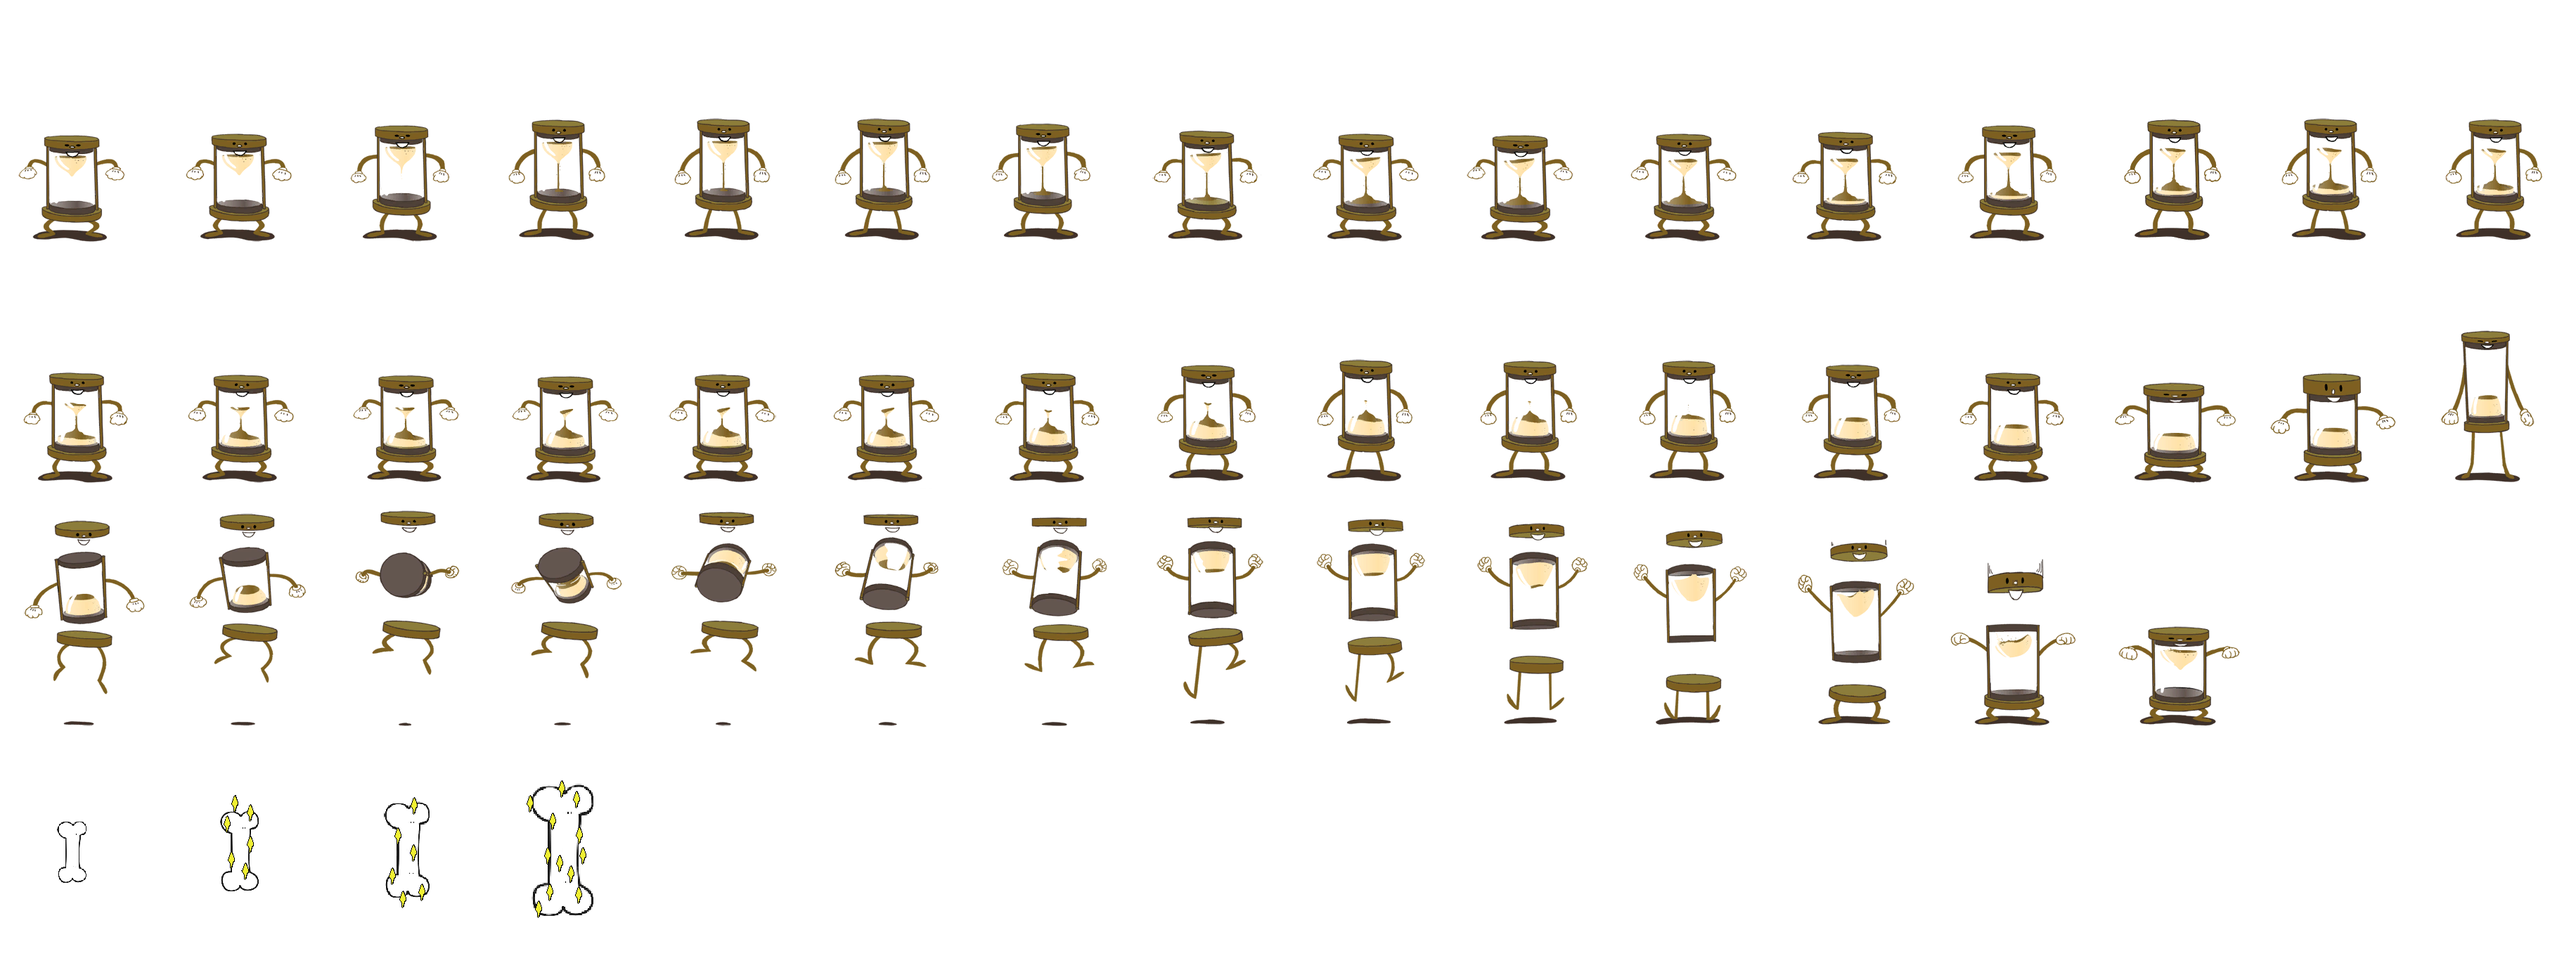
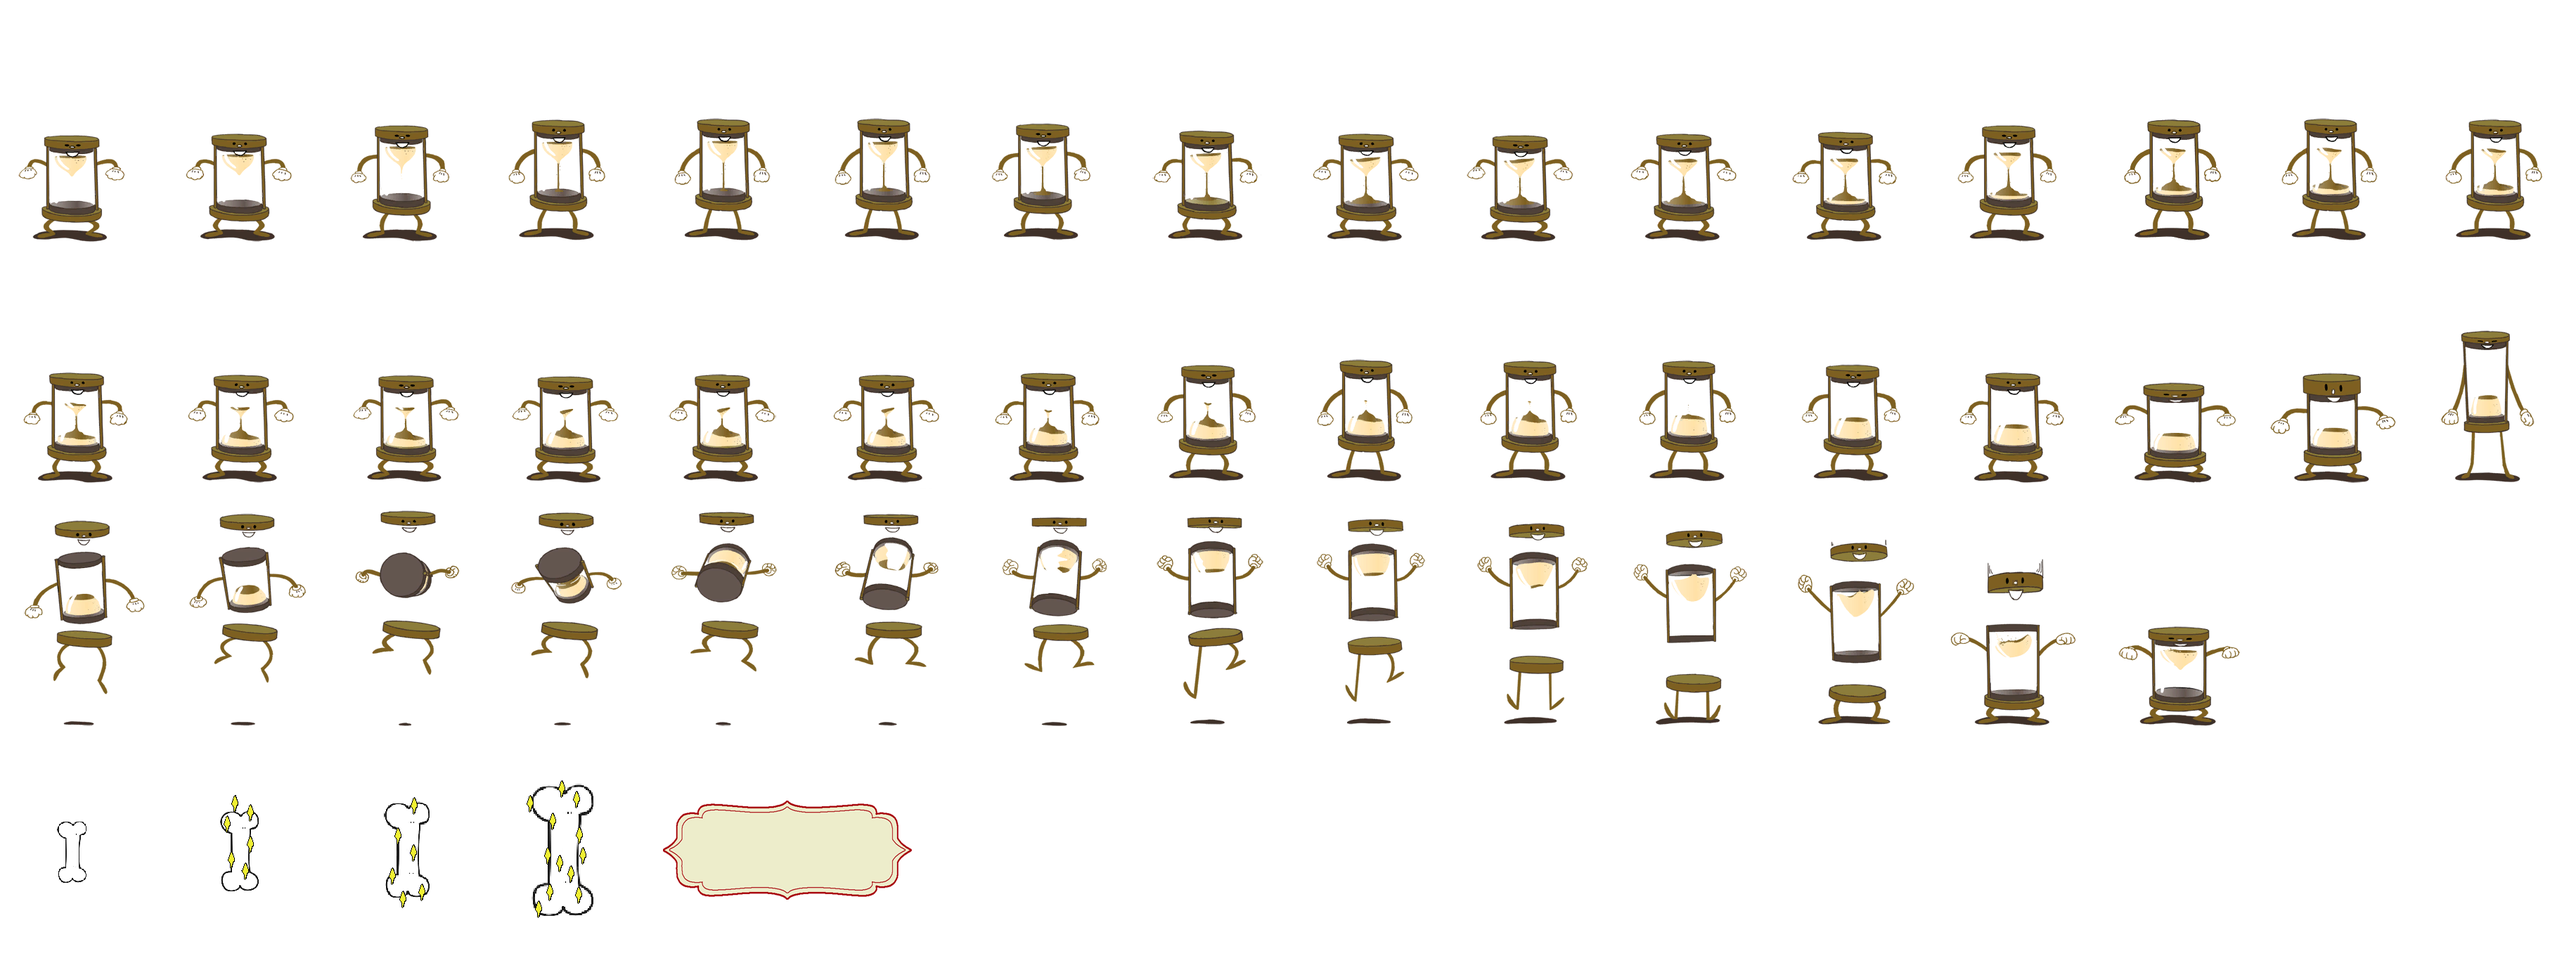
Options menu remade

Changed region(s): [[0.2489, 0.8101, 0.3734, 0.9348]]

diff --git a/WLTDJ3/Motor2D/j1Scene.cpp b/WLTDJ3/Motor2D/j1Scene.cpp
@@ -237,23 +237,23 @@ void j1Scene::Unload_map()
 void j1Scene::Load_main_menu()
 {
 	//Start button (All of it could be the child of start to simplify code)
-	start = App->gui->Add_button(370, 250, (j1Module*)this, START);
+	start = App->gui->Add_button(370, 250, (j1Module*)this);
 	Text* text_to_link = App->gui->Add_text(0, 0, "START");
 	start->Link_ui_element(text_to_link, 100, 30);
 	//Continue button
-	continuee = App->gui->Add_button(370, 350, (j1Module*)this, START);
+	continuee = App->gui->Add_button(370, 350, (j1Module*)this);
 	text_to_link = App->gui->Add_text(0, 0, "CONTINUE");
 	continuee->Link_ui_element(text_to_link, 75, 30);	
 	//Options button
-	options = App->gui->Add_button(370, 450, (j1Module*)this, START);
+	options = App->gui->Add_button(370, 450, (j1Module*)this);
 	text_to_link = App->gui->Add_text(0, 0, "OPTIONS");
 	options->Link_ui_element(text_to_link, 85, 30);	
 	//Credits button
-	credits = App->gui->Add_button(370, 550, (j1Module*)this, START);
+	credits = App->gui->Add_button(370, 550, (j1Module*)this);
 	text_to_link = App->gui->Add_text(0, 0, "CREDITS");
 	credits->Link_ui_element(text_to_link, 85, 30);
 	//Exit button
-	exit = App->gui->Add_button(370, 650, (j1Module*)this, START);
+	exit = App->gui->Add_button(370, 650, (j1Module*)this);
 	text_to_link = App->gui->Add_text(0, 0, "EXIT");
 	exit->Link_ui_element(text_to_link, 105, 30);
 
@@ -282,8 +282,8 @@ void j1Scene::UnLoad_main_menu()
 void j1Scene::Load_credits()
 {
 	Text* text_to_link = App->gui->Add_text(0, 0, "MAIN MENU");
-	exit_main_menu_fc = App->gui->Add_button(500, 500, (j1Module*)this, START);
-	exit_main_menu_fc->Link_ui_element(text_to_link, 70, 22);
+	exit_main_menu_fc = App->gui->Add_button(500, 500, (j1Module*)this);
+	exit_main_menu_fc->Link_ui_element(text_to_link, 70, 30);
 
 	App->gui->Set_backgrond(win_screen);
 }
@@ -300,13 +300,13 @@ void j1Scene::Load_pause()
 	Text* titola = App->gui->Add_text(0, 0, "PAUSE MENU", title);
 	Pause_Window = App->gui->Add_window(300, 100);
 
-	resume = App->gui->Add_button(0, 0, (j1Module*)this, START);
+	resume = App->gui->Add_button(0, 0, (j1Module*)this);
 	Text* text_to_link = App->gui->Add_text(0, 0, "RESUME");
 	resume->Link_ui_element(text_to_link, 80, 22);
 
-	exit_main_menu_fg = App->gui->Add_button(0, 0, (j1Module*)this, START);
+	exit_main_menu_fg = App->gui->Add_button(0, 0, (j1Module*)this);
 	text_to_link = App->gui->Add_text(0, 0, "MAIN MENU");
-	exit_main_menu_fg->Link_ui_element(text_to_link, 70, 22);
+	exit_main_menu_fg->Link_ui_element(text_to_link, 70, 30);
 
 	Pause_Window->Link_ui_element(resume, 120, 100);
 	Pause_Window->Link_ui_element(exit_main_menu_fg, 120, 300);
@@ -323,51 +323,68 @@ void j1Scene::UnLoad_pause()
 
 void j1Scene::Load_options()
 {
-	//Create window
-	Options_Window = App->gui->Add_window(500, 100);
-
 	//Create window elements
-	upper_music_volume = App->gui->Add_button(0, 0, (j1Module*)this);
-	lower_music_volume = App->gui->Add_button(0, 0, (j1Module*)this);
+	upper_music_volume = App->gui->Add_button(900, 400, (j1Module*)this, UPPER);
+	lower_music_volume = App->gui->Add_button(400, 400, (j1Module*)this, LOWER);
 
-	upper_fx_volume = App->gui->Add_button(0, 0, (j1Module*)this);
-	lower_fx_volume = App->gui->Add_button(0, 0, (j1Module*)this);
+	upper_fx_volume = App->gui->Add_button(900, 600, (j1Module*)this, UPPER);
+	lower_fx_volume = App->gui->Add_button(400, 600, (j1Module*)this, LOWER);
 
-	exit_main_menu_fo = App->gui->Add_button(0, 0, (j1Module*)this);
+	exit_main_menu_fo = App->gui->Add_button(0, 600, (j1Module*)this);
 	Text* text_to_link = App->gui->Add_text(0, 0, "MAIN MENU");
-	exit_main_menu_fo->Link_ui_element(text_to_link, 70, 22);
+	exit_main_menu_fo->Link_ui_element(text_to_link, 70, 30);
 
-	StatBar* music_volume = App->gui->Add_StatBar(0, 0, 300, 20, &App->audio->music_volume, MIX_MAX_VOLUME);
-	StatBar* fx_volume = App->gui->Add_StatBar(0, 0, 300, 20, &App->audio->fx_volume, MIX_MAX_VOLUME);
+	music_volume = App->gui->Add_StatBar(565, 410, 300, 50, &App->audio->music_volume, MIX_MAX_VOLUME);
+	text_to_link = App->gui->Add_text(0, 0, "MUSIC VOLUME");
+	//Create label for text
+	Icon* pretty_label = App->gui->Add_icon(0, 0);
+	pretty_label->anim.PushBack({ 939, 1139, 362, 141 });
+	pretty_label->anim.loop = false;
+	pretty_label->animation = &pretty_label->anim;
+	pretty_label->scale = 0.7;
+	//Link label to text
+	text_to_link->Link_ui_element(pretty_label, -35, -30);
 
-	//Link elements
-	Options_Window->Link_ui_element(upper_music_volume, 400, 100);
-	Options_Window->Link_ui_element(upper_fx_volume, 400, 300);
+	music_volume->Link_ui_element(text_to_link, 0, -80);
 
-	Options_Window->Link_ui_element(lower_music_volume, -100, 100);
-	Options_Window->Link_ui_element(lower_fx_volume, -100, 300);
+	fx_volume = App->gui->Add_StatBar(565, 610, 300, 50, &App->audio->fx_volume, MIX_MAX_VOLUME);
+	text_to_link = App->gui->Add_text(0, 0, "FX VOLUME");
+	//Create label for text
+	pretty_label = App->gui->Add_icon(0, 0);
+	pretty_label->anim.PushBack({ 939, 1139, 362, 141 });
+	pretty_label->anim.loop = false;
+	pretty_label->animation = &pretty_label->anim;
+	pretty_label->scale = 0.7;
+	//Link label to text
+	text_to_link->Link_ui_element(pretty_label, -60, -30);
 
-	Options_Window->Link_ui_element(music_volume, 60, 100);
-	Options_Window->Link_ui_element(fx_volume, 60, 300);
+	fx_volume->Link_ui_element(text_to_link, 20, -80);
 
-	Options_Window->Link_ui_element(exit_main_menu_fo, 120, 350);
+	App->gui->Set_backgrond(main_menu_background);
 
 }
 
 void j1Scene::UnLoad_options()
 {
-	App->gui->Erase_Ui_element(Options_Window);
-	Options_Window = nullptr;
+	App->gui->Erase_Ui_element(upper_music_volume);
 	upper_music_volume = nullptr;
+	App->gui->Erase_Ui_element(lower_music_volume);
 	lower_music_volume = nullptr;
+	App->gui->Erase_Ui_element(upper_fx_volume);
 	upper_fx_volume = nullptr;
+	App->gui->Erase_Ui_element(lower_fx_volume);
 	lower_fx_volume = nullptr;
+	App->gui->Erase_Ui_element(exit_main_menu_fo);
 	exit_main_menu_fo = nullptr;
+	App->gui->Erase_Ui_element(music_volume);
+	music_volume = nullptr;
+	App->gui->Erase_Ui_element(fx_volume);
+	fx_volume = nullptr;
 }
 void j1Scene::OnMouseEvent(UI_EVENT event, Ui_element* element)
 {
 	//TEST
-	if(event == MOUSE_STOP_CLICK)
+	if(event == MOUSE_STOP_CLICK && !App->transition->transitioning)
 	{ 
 		//Main menu
 			if (element == start)
@@ -399,8 +416,8 @@ void j1Scene::OnMouseEvent(UI_EVENT event, Ui_element* element)
 			}
 			if (element == options)
 			{
-				//Load options
-				want_load_options = true;
+				//Unload main menu and load options
+				App->transition->Make_transition(&want_unload_main_menu, &want_load_options);
 			}
 		//Pause menu
 			if (element == resume)
@@ -433,15 +450,17 @@ void j1Scene::OnMouseEvent(UI_EVENT event, Ui_element* element)
 			if (element == upper_fx_volume)
 			{
 				App->audio->Modify_fx_volume(10);
+				App->audio->PlayFx(1);
 			}
 			if (element == lower_fx_volume)
 			{
 				App->audio->Modify_fx_volume(-10);
+				App->audio->PlayFx(1);
 			}
 			if (element == exit_main_menu_fo) 
 			{
-				//Load options
-				want_unload_options = true;
+				//Unload main menu and load options
+				App->transition->Make_transition(&want_load_main_menu, &want_unload_options);
 			}
 
 

diff --git a/WLTDJ3/Motor2D/Button.cpp b/WLTDJ3/Motor2D/Button.cpp
@@ -14,18 +14,40 @@
 Button::Button(int x, int y, j1Module* _listener, BUTTON_TYPE _button_type): Ui_element(x, y)
 {
 	type = BUTTON;
-	button_type = _button_type;
-	Idle.PushBack({ 5,237,277,103 }); 
-	Idle.loop = false;
 
-	Shiny.PushBack({ 5,120,277,103 });
-	Shiny.loop = false;
+	switch (_button_type) {
+		case STATE_CHANGE:
+		{
+			Idle.PushBack({ 5,237,277,103 });
+			Shiny.PushBack({ 5,120,277,103 });
+			Pressed.PushBack({ 5,6,277,103 });
+			collider = App->gui->click_manager->Add_ui_collider({ x,y,277,95 });
+			break;
+		}
+		case UPPER:
+		{
+			Idle.PushBack({320,19,121,75});
+			Shiny.PushBack({ 320,101,121,75});
+			Pressed.PushBack({320,19,121,75});
+			collider = App->gui->click_manager->Add_ui_collider({ x,y,121,75 });
+			break;
+		}
+		case LOWER:
+		{
+			Idle.PushBack({ 320,279,121,75 });
+			Shiny.PushBack({ 320,201,121,75 });
+			Pressed.PushBack({ 320,279,121,75 });
+			collider = App->gui->click_manager->Add_ui_collider({ x,y,121,75 });
+			break;
+		}
+	}
 
-	Pressed.PushBack({ 5,6,277,103 });
+
 	Pressed.loop = false;
-
+	Shiny.loop = false;
+	Idle.loop = false;
 	listener = _listener;
-	collider = App->gui->click_manager->Add_ui_collider({x,y,277,95 });
+	
 
 	animation = &Idle;
 }

diff --git a/WLTDJ3/Motor2D/j1Gui.h b/WLTDJ3/Motor2D/j1Gui.h
@@ -25,9 +25,9 @@ enum UI_ELEMENT_TYPE //Type of ui elements avaliable
 enum BUTTON_TYPE //Knowing what type of button we are creating, just for animation purpuses
 {
 	NONE,
-	START,
-	OPTIONS,
-	CREDITS
+	STATE_CHANGE,
+	UPPER,
+	LOWER
 };
 enum UI_EVENT
 {
@@ -67,7 +67,7 @@ public:
 	//Add icon
 	Icon* Add_icon(int x, int y);
 	//Add button
-	Button* Add_button(int x, int y, j1Module* _listener, BUTTON_TYPE button_type = NONE);
+	Button* Add_button(int x, int y, j1Module* _listener, BUTTON_TYPE button_type = STATE_CHANGE);
 	//Add text as UI
 	Text* Add_text(int x, int y, const char* text, _TTF_Font* font = nullptr);
 	//Add window

diff --git a/WLTDJ3/Motor2D/j1Transition.h b/WLTDJ3/Motor2D/j1Transition.h
@@ -24,11 +24,13 @@ public:
 	//Make a giant animation over all the stuff blited in the screen (maybe make some sound)
 	void Make_transition(bool* bool_to_unload, bool* bool_to_load);
 
+	bool transitioning = false;
+
 private:
 
-	bool* bool_to_load;
-	bool* bool_to_unload;
-	SDL_Texture* graphics;
+	bool* bool_to_load = nullptr;
+	bool* bool_to_unload = nullptr;
+	SDL_Texture* graphics = nullptr;
 	Animation transition1;
 	Animation transition2;
 	FADE_STATE current_state;

diff --git a/WLTDJ3/Motor2D/j1Scene.h b/WLTDJ3/Motor2D/j1Scene.h
@@ -92,12 +92,13 @@ private:
 	Button* exit_main_menu_fc;
 	
 	//Options setup
-	Window* Options_Window = nullptr;
 	Button* exit_main_menu_fo = nullptr;
 	Button* upper_music_volume = nullptr;
 	Button* lower_music_volume = nullptr;
 	Button* upper_fx_volume = nullptr;
 	Button* lower_fx_volume = nullptr;
+	StatBar* music_volume = nullptr;
+	StatBar* fx_volume = nullptr;
 
 	// HUD setup
 	Icon* hourglass = nullptr;

diff --git a/WLTDJ3/Motor2D/j1Transition.cpp b/WLTDJ3/Motor2D/j1Transition.cpp
@@ -73,6 +73,8 @@ bool j1Transition::PostUpdate()
 				if (bool_to_unload != nullptr)
 				*bool_to_unload = true;
 				transition2.Reset();
+
+				transitioning = true;
 			}
 			break;
 		}
@@ -82,6 +84,7 @@ bool j1Transition::PostUpdate()
 			if (transition2.Finished())
 			{
 				current_state = NOTHING;
+				transitioning = false;
 			}
 			break;
 		}

diff --git a/WLTDJ3/Motor2D/Button.h b/WLTDJ3/Motor2D/Button.h
@@ -10,7 +10,6 @@ class Button : public Ui_element
 public:
 	Button(int x, int y, j1Module* _listener,BUTTON_TYPE _button_type);
 	~Button();
-	BUTTON_TYPE button_type; //We should be able to create various types of buttons
 
 	j1Module* listener = nullptr;  // Module which has to execute their OnMouseEvent
 
